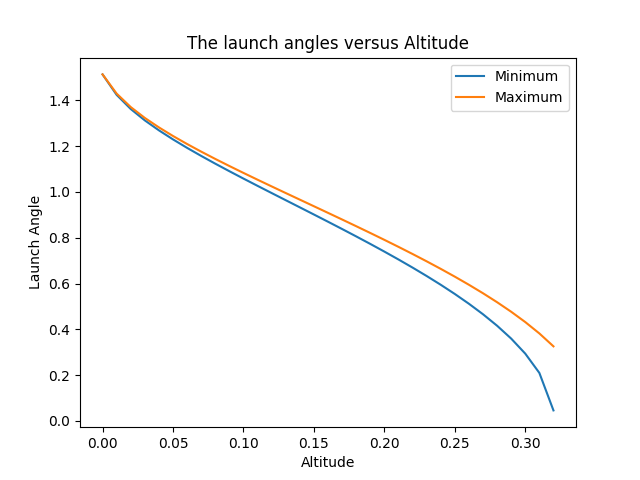
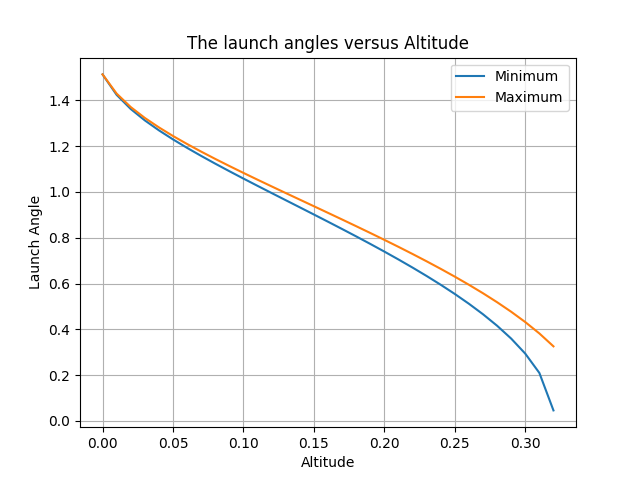
Grid Lines to graphs, step size change, and launch angle expected

diff --git a/src/Tests.py b/src/Tests.py
@@ -49,6 +49,18 @@ def launchanglerangetest():
     alpha = 0.25
     tol_alpha = 0.02
     print('Pass',launch_angle_range(ve_v0, alpha, tol_alpha))
+    #Manually determine values
+    vev0 = 2
+    a = 0.25
+    tol = 0.02
+    a_max = (1+tol)*a
+    a_min = (1-tol)*a
+    z_max = (1 + a_min)*np.sqrt(1-((a_min/(1+a_min))*(vev0**2)))
+    z_min = (1 + a_max)*np.sqrt(1-((a_max/(1+a_max))*(vev0**2)))
+    angle_min = np.arcsin(z_min)
+    angle_max = np.arcsin(z_max)
+    print(f'This is the expected minimum and maximum launch angles {angle_min,angle_max}')
+
 
 def launchanglerangetest1():
 #ve_v0 is negative, fails

diff --git a/src/Driver.py b/src/Driver.py
@@ -50,12 +50,13 @@ def main():
     plt.xlabel('Altitude')
     plt.ylabel('Launch Angle')
     plt.legend()
+    plt.grid()
     plt.savefig('Figures/ Altitude_Ranges')
     plt.show()
 
     #Question Four
     #Exact same thing but now for a range of ve_v0 
-    ve_v0_range = np.arange(1.35,2.21,0.1)
+    ve_v0_range = np.arange(1.4,2.21,0.01)
     alpha = 0.25
     tol_alpha = 0.04
     #minimum launch angle list
@@ -74,6 +75,7 @@ def main():
     plt.xlabel('Velocity Ratio')
     plt.ylabel('Launch Angle')
     plt.legend()
+    plt.grid()
     plt.savefig('Figures/ Velocity_Ratio_Range')
     plt.show()
 
